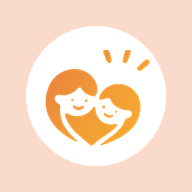
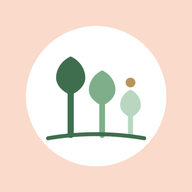
155: 효숲 로고(세 그루 나무)·앱 아이콘(잎 속 새싹)·입구 구 카드 그림 교체(03 시험판 로고를 SVG로 다시 그림, 원본 app/brand/hyoforest) + 이용 안내 '효숲 이야기' + 입구 한 줄 소개 + 시험
Claude-Session: https://claude.ai/code/session_01Av7xmGvufoCKB7F6raS8o2

Changed region(s): [[0.2188, 0.25, 0.7812, 0.7812], [0.625, 0.25, 0.6875, 0.3438], [0.6875, 0.3125, 0.7812, 0.375]]

diff --git a/app/index.html b/app/index.html
@@ -13,8 +13,8 @@
 <meta name="apple-mobile-web-app-title" content="효숲{{name}}">
 <title>효숲 {{name}}</title>
 <link rel="manifest" href="manifest.webmanifest">
-<link rel="icon" href="icon-192.png?v=61">
-<link rel="apple-touch-icon" href="icon-192.png?v=61">
+<link rel="icon" href="icon-192.png?v=62">
+<link rel="apple-touch-icon" href="icon-192.png?v=62">
 <link rel="preconnect" href="https://fonts.googleapis.com">
 <link rel="stylesheet" href="https://fonts.googleapis.com/css2?family=Noto+Sans+KR:wght@400;500;700;800&family=Gothic+A1:wght@800&display=swap">
 <style>
@@ -2531,6 +2531,7 @@ function viewAbout() {
 {{#else}}
     ${sec("이 서비스는", `{{name}}에 사는 학부모에게 꼭 필요한 정보를 한곳에서 볼 수 있으면 좋겠다는 생각으로, 효숲 팀이 직접 만든 <b>학부모 통합 정보 서비스</b>예요.<br>학교 일정, 도서관, 학원, 유치원, 아이와 갈 행사, 일자리 정보를 공공 자료에서 모아 보여 드려요.`)}
 {{/if}}
+    ${sec("효숲 이야기", `<b>효(孝)</b> — 부모와 어르신을 아끼고 섬기는 마음이에요.<br><b>숲</b> — 나무 한 그루가 아니라 여러 그루가 함께 자라는 곳이에요.<br>그래서 <b>효숲</b>은 어르신·부모·아이 세 세대가 서로 기대어 함께 자라는 숲이라는 뜻이에요. 로고의 세 그루 나무도 세 세대를 나타내요. 영문 이름은 Hyo Forest예요.`)}   /* 155: 03 전달 메모 v2의 이름 뜻(대표 확정). 소개 문구 초안은 대표 확정 전이라 넣지 않음 */
     ${sec("무료로 운영해요", li(["모든 기능을 <b>무료</b>로 제공해요. 회원가입이나 결제가 없어요.", "{{f.sgg}}청, 교육청 등 <b>공공기관이 운영하는 서비스가 아니에요.</b> 개인이 공공 자료를 모아 보여 드리는 서비스예요."]))}
     ${sec("개인정보를 묻지 않아요", `회원가입이 없고, 이름·전화번호·이메일·주소를 <b>묻지 않아요.</b><br>문의하기를 보내면 처리를 위해 <b>문의 종류·적은 글·보낸 구와 화면 이름·접수와 처리 시각</b>만 보관해요. 처리 여부와 상관없이 접수 180일 뒤에 지워요.<br>같은 곳에서 문의를 너무 많이 보내는 것을 막으려고, 접속 주소(IP)를 알아볼 수 없게 바꾼 값을 보관하고, 하루가 지나면 지울 대상이 돼요.<br>기한이 지난 기록은 다음 문의가 접수되거나 관리자가 접수함을 열 때 지워지므로, 실제로 지워지는 날은 조금 늦을 수 있어요. <b>문의 글에는 개인정보를 적지 말아 주세요.</b>`)}
     ${sec("어떤 정보를 어디에, 무엇에 쓰나요", [
@@ -3269,7 +3270,7 @@ function mock(k) {
     more: `<div style="display:flex;gap:4px"><div class="rb"><i>⧉</i>복사</div><div class="rb"><i>▭</i>기기로 보내기</div><div class="rb"><i>☰</i>읽기 목록</div><div class="rb"><i class="hl">⌄</i><b>더 보기</b></div></div>`,
     addHome: `<div style="border-radius:12px;overflow:hidden"><div class="li" style="opacity:.55">▦ QR 코드 만들기</div><div class="li hl" style="font-weight:800">${ICON_PLUS} 홈 화면에 추가</div><div class="li" style="opacity:.55">✎ 새로운 빠른 메모에 추가</div></div>`,
     addBtn: `<div style="display:flex;justify-content:space-between;align-items:center;background:#fff;border-radius:12px;padding:8px 10px"><span style="color:#1a73e8">취소</span><b>홈 화면에 추가</b><span class="hl" style="color:#1a73e8;font-weight:800;padding:2px 8px">추가</span></div>
-      <div style="display:flex;align-items:center;gap:8px;margin-top:8px"><img src="icon-192.png?v=61" width="30" height="30" style="border-radius:8px" alt=""><span>효숲 {{name}}</span></div>`,
+      <div style="display:flex;align-items:center;gap:8px;margin-top:8px"><img src="icon-192.png?v=62" width="30" height="30" style="border-radius:8px" alt=""><span>효숲 {{name}}</span></div>`,
     safariBar: `<div class="bar" style="justify-content:space-between"><span>‹</span><span style="flex:1;text-align:center;opacity:.7">${esc(location.host)}</span><span class="hl" style="padding:2px 8px;font-weight:800">⋯</span></div><div style="font-size:11px;color:var(--muted);margin-top:6px;text-align:center">화면 맨 아래 주소창 오른쪽</div>`,
     safariShare: `<div style="border-radius:12px;overflow:hidden"><div class="li hl" style="font-weight:800">${sh} 공유</div><div class="li" style="opacity:.55">☆ 책갈피에 추가</div></div>`,
     kakao: `<div class="bar" style="justify-content:space-between"><span>✕</span><span style="flex:1;text-align:center;opacity:.7">${esc(location.host)}</span><span class="hl" style="padding:2px 8px;font-weight:800">⋮</span></div><div style="font-size:11px;color:var(--muted);margin-top:6px;text-align:center">카톡 화면 오른쪽 위 또는 아래</div>`,
@@ -3314,7 +3315,7 @@ function openInstall(auto) {
   el.style.cssText = "position:fixed;inset:0;z-index:50;background:rgba(20,26,46,.45);display:flex;align-items:flex-end;justify-content:center";
   el.innerHTML = `<div style="background:#fff;width:min(560px,100%);border-radius:26px 26px 0 0;padding:22px 20px calc(26px + env(safe-area-inset-bottom));box-shadow:0 -10px 30px rgba(20,26,46,.25);max-height:88vh;overflow:auto">
       <div style="display:flex;align-items:center;gap:12px">
-        <img src="icon-192.png?v=61" alt="" width="44" height="44" style="border-radius:12px;box-shadow:0 3px 10px rgba(30,40,90,.15)">
+        <img src="icon-192.png?v=62" alt="" width="44" height="44" style="border-radius:12px;box-shadow:0 3px 10px rgba(30,40,90,.15)">
         <div style="flex:1;min-width:0"><div style="font-size:12px;color:var(--muted)">효숲 {{name}} · 앱처럼 쓰기</div><div style="font-size:18px;font-weight:800;margin-top:2px">${esc(title)}</div></div>
         <button onclick="closeInstall()" aria-label="닫기" style="border:0;background:#EEF0F6;width:34px;height:34px;border-radius:17px;font-size:18px;color:var(--muted);cursor:pointer">×</button></div>
       ${MOCK_CSS}<div style="margin-top:6px">${body}</div>

diff --git a/tests/e2e/logo155.spec.js b/tests/e2e/logo155.spec.js
@@ -1,0 +1,37 @@
+// 155: 효숲 로고(나무)·앱 아이콘 교체 + 이용 안내 '효숲 이야기' — 옛 주황 로고가 남지 않았는지
+const { test, expect } = require("@playwright/test");
+
+/* 그림을 캔버스에 그려 초록(숲) 점과 주황(옛 로고) 점 수를 셈 */
+async function colors(page, src) {
+  return page.evaluate(async (src) => {
+    const im = new Image(); im.src = src; await im.decode();
+    const c = document.createElement("canvas"); c.width = im.naturalWidth; c.height = im.naturalHeight;
+    const x = c.getContext("2d"); x.drawImage(im, 0, 0); const d = x.getImageData(0, 0, c.width, c.height).data;
+    let green = 0, orange = 0;
+    for (let i = 0; i < d.length; i += 4) { const [r, g, b, a] = [d[i], d[i + 1], d[i + 2], d[i + 3]]; if (a < 128) continue;
+      if (g > r + 15 && g > b) green++; if (r > 200 && g > 100 && g < 190 && b < 90) orange++; }
+    return { green, orange };
+  }, src);
+}
+
+test.beforeEach(async ({ page }) => { await page.route(/goatcounter\.com|gc\.zgo\.at|raw\.githubusercontent\.com/, (r) => r.abort()); });
+
+test("155 로고: 홈 머리글·입구 로고·앱 아이콘·구 카드 그림이 초록 나무, 옛 주황 로고 없음", async ({ page }, info) => {
+  test.skip(info.project.name !== "폰390", "그림 확인은 한 번만");
+  await page.goto("/yuseong/");
+  for (const src of ["assets/brand/logo-symbol.png", "icon-192.png", "icon-512.png", "../entry/img/logo-symbol.png", "../entry/icon-192.png", "../entry/img/tile-yuseong.png", "../entry/img/tile-djdonggu.png"]) {
+    const c = await colors(page, src);
+    expect(c.green, src + " 초록").toBeGreaterThan(200);
+    expect(c.orange, src + " 주황").toBeLessThan(20);
+  }
+});
+
+test("155 이용 안내에 '효숲 이야기'(효·숲 뜻, 세 세대), 입구 아래에 한 줄 소개", async ({ page }, info) => {
+  test.skip(info.project.name !== "폰390", "글자 확인은 한 폭에서");
+  await page.goto("/yuseong/#about");
+  await expect(page.locator("#view")).toContainText("효숲 이야기", { timeout: 10000 });
+  const t = await page.locator("#view").innerText();
+  for (const w of ["효(孝)", "여러 그루가 함께 자라는", "세 세대", "Hyo Forest"]) expect(t).toContain(w);
+  await page.goto("/entry/");
+  await expect(page.locator(".foot")).toContainText("세 세대가 함께 자라는 숲");
+});

diff --git a/app/entry/index.html b/app/entry/index.html
@@ -279,7 +279,7 @@ a.help-btn{display:inline-flex;align-items:center;justify-content:center;text-de
     <a class="ask" href="../inquiry/?kind=use&amp;screen=%EC%9A%B0%EB%A6%AC%20%EB%8F%99%EB%84%A4%EB%8F%84%20%EC%97%B4%EC%96%B4%20%EC%A3%BC%EC%84%B8%EC%9A%94">✉ 우리 동네도 열어 주세요</a>
   </div>
   <!--GUIDES-->
-  <div class="foot">효숲은 공공기관이 아닌 민간이 만든 무료 서비스예요.<br>정보는 나이스·유치원 알리미·도서관 정보나루 등 공공데이터를 모아 보여 드려요.<br>문의는 <a href="../inquiry/">문의하기</a>로 보내 주세요.</div>
+  <div class="foot"><b>효숲</b> — 어르신·부모·아이 세 세대가 함께 자라는 숲.<br>효숲은 공공기관이 아닌 민간이 만든 무료 서비스예요.<br>정보는 나이스·유치원 알리미·도서관 정보나루 등 공공데이터를 모아 보여 드려요.<br>문의는 <a href="../inquiry/">문의하기</a>로 보내 주세요.</div>
 </div>
 <script>
 // ───────────────────────────────────────────────────────────────
